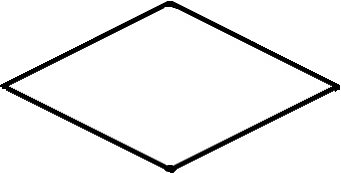
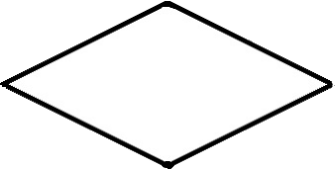
Better cubes

diff --git a/Game1.cs b/Game1.cs
@@ -44,10 +44,10 @@ namespace QBert
                 cubes.Add(new List<Cube>());
                 for (int j = 0; j < i + 1; j++)
                 {
-                    cubes[6 - i].Add(new Cube(new Rectangle(cube_coord_x + (cube_width / 2 - 3) * (6 - i) + (cube_width - 3) * j, cube_coord_y - (6 - i) * (cube_height - 27), 100, 100),
-                         new Rectangle(cube_coord_x + (cube_width / 2 - 3) * (6 - i) + (cube_width - 3) * j, cube_coord_y - (6 - i) * (cube_height - 27), 98, 50),
-                         new Rectangle(cube_coord_x + (cube_width / 2 - 3) * (6 - i) + (cube_width - 3) * j + 50, cube_coord_y - (6 - i) * (cube_height - 27) + 24, 47, 73),
-                         new Rectangle(cube_coord_x + (cube_width / 2 - 3) * (6 - i) + (cube_width - 3) * j, cube_coord_y - (6 - i) * (cube_height - 27) + 25, 50, 73))
+                    cubes[6 - i].Add(new Cube(new Rectangle(cube_coord_x + (cube_width / 2 - 2) * (6 - i) + (cube_width - 6) * j, cube_coord_y - (6 - i) * (cube_height - 27), 100, 100),
+                         new Rectangle(cube_coord_x + (cube_width / 2 - 2) * (6 - i) + (cube_width - 6) * j - 2, cube_coord_y - (6 - i) * (cube_height - 27), 95, 50),
+                         new Rectangle(cube_coord_x + (cube_width / 2 - 2) * (6 - i) + (cube_width - 6) * j + 45, cube_coord_y - (6 - i) * (cube_height - 27) + 25, 47, 73),
+                         new Rectangle(cube_coord_x + (cube_width / 2 - 2) * (6 - i) + (cube_width - 6) * j - 3, cube_coord_y - (6 - i) * (cube_height - 27) + 25, 50, 73))
                     { Top_color = Color.Blue, Left_color = Color.Brown, Right_color = Color.Orange });
                 }
             }

diff --git a/Classes/Cube.cs b/Classes/Cube.cs
@@ -47,7 +47,7 @@ namespace QBert.Classes
 
         public void Draw(SpriteBatch brush)
         {
-            brush.Draw(texture_cube, rect_cube, Color.White);
+            //brush.Draw(texture_cube, rect_cube, Color.White);
             brush.Draw(texture_top, rect_top, top_color);
             brush.Draw(texture_left, rect_left, Left_color);
             brush.Draw(texture_right, rect_right, Right_color);
